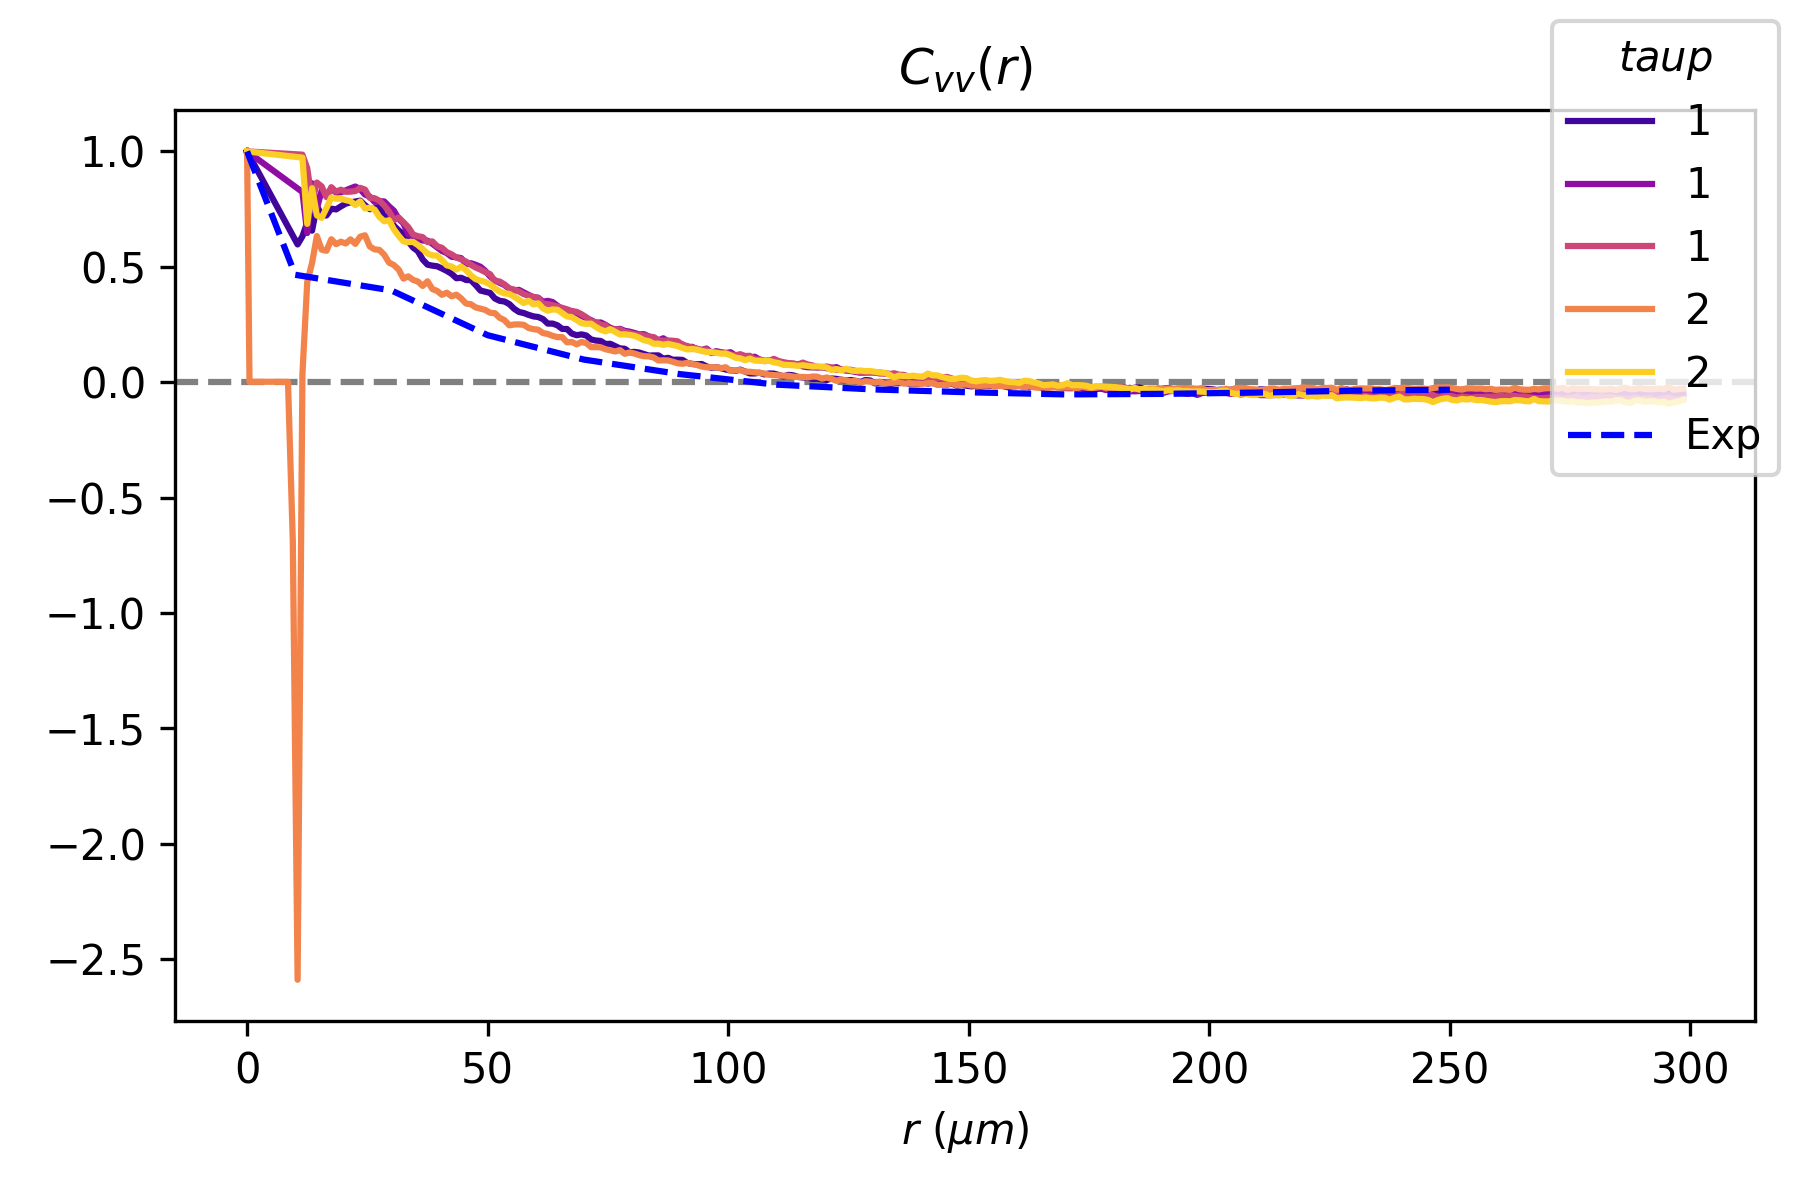
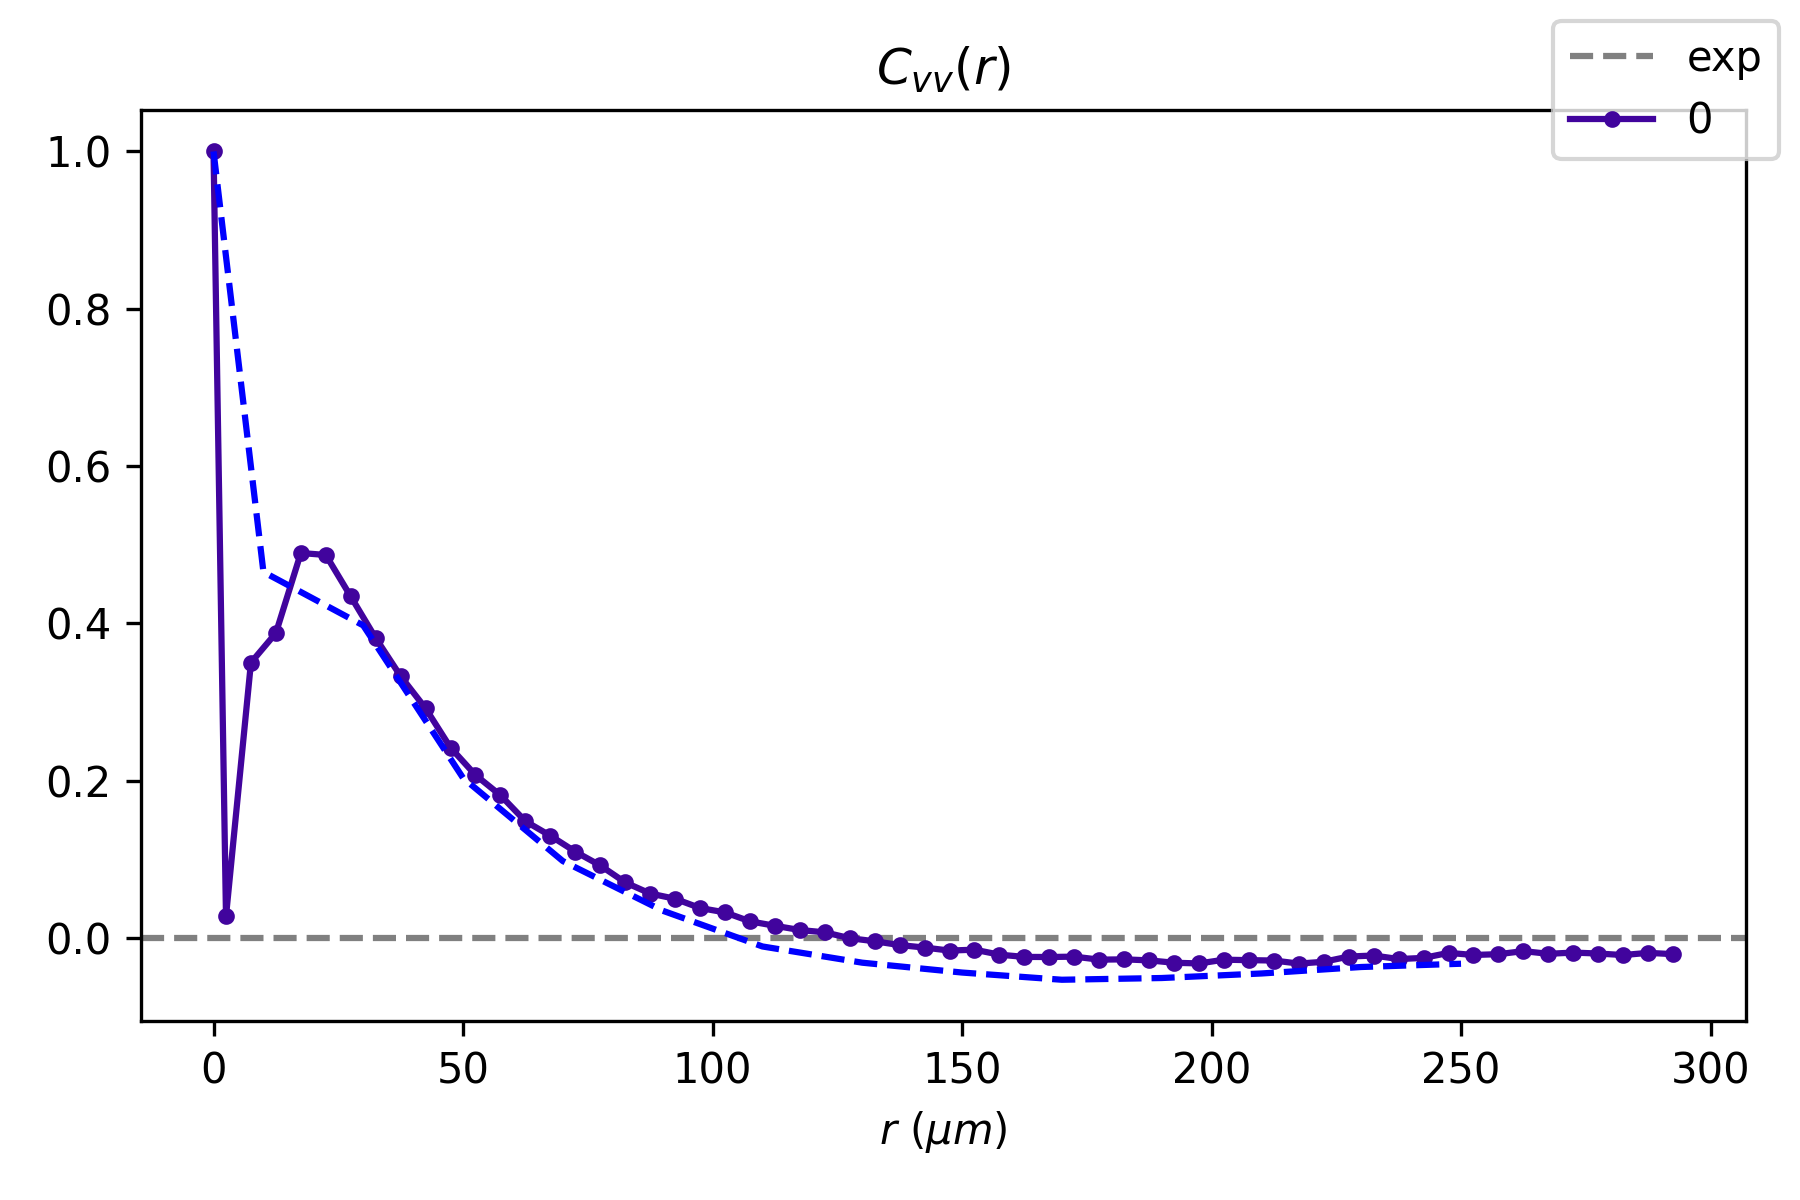
dev

diff --git a/analysis/visualization/compare_correlation_to_experiment.py b/analysis/visualization/compare_correlation_to_experiment.py
@@ -10,6 +10,9 @@ from datetime import datetime
 sys.path.append("analysis/visualization")
 from plot_correlations import plot_correlation, sort_files, initialize_figure
 
+sys.path.append("analysis/utils")
+import config_functions as config
+
 sys.path.append("exe/utils")
 from vm_functions import hexagon_side
 
@@ -19,6 +22,10 @@ from data_class import AutocorrelationData, SegmentationData
 date    = datetime.now().strftime('%Y%m%d')
 fig_dir = f"results/{date}/"
 Path(fig_dir).mkdir(parents=True, exist_ok=True)
+
+
+# Define paths
+config_dir = "data/simulated/configs/"
 
 parser = argparse.ArgumentParser(description="Plot all defined autocorrelations")
 parser.add_argument('filepattern',   type=str, help="Path to files to plot. Typically 'data/simulated/obj/file'. Filename is on form <'path/to/file'>*.autocorr")
@@ -57,7 +64,7 @@ mask = (cellprop.density > density - args.binsize / 2) * (cellprop.density < den
 if args.param == "vv":
     mask = mask[:-1]
 
-print(len(mask), len(cellcorr.spatial[args.param]))
+
 # take mean of correlations at this density
 if args.var == "r":
     mean_correlation = np.ma.mean(cellcorr.spatial[args.param][mask], axis=0)
@@ -77,11 +84,19 @@ cmap   = mpl.colormaps[args.cmap]
 colors = cmap(np.linspace(0.1, 0.9, len(files_list)))
 
 # Plot each data set
+labels = ['exp']
+i = 0
 fig = initialize_figure(args.param, args)
 for file, label, color in zip(files_list, labels_list, colors):
 
-    plot_correlation(file, label, color, args)
+    # # config
+    # fname = Path(file).stem
+    # config_path = f"{config_dir}/{fname}.json"
+    # config_file = config.load(config_path)
 
+    plot_correlation(file, label, color, args)
+    labels.append(i)
+    i += 1
 
 if args.var == "r":
     plt.plot(cellcorr.r_array[args.param], mean_correlation, "b--", label="Exp")
@@ -100,7 +115,11 @@ else:
     out_path = f"{fig_dir}temporal_autocorrelation_{args.param}.png"
 
 
+
+
 if args.legend != '':
     fig.legend(title=rf'${args.legend}$')
+else:
+    fig.legend(labels)
 fig.tight_layout()
 fig.savefig(out_path)
